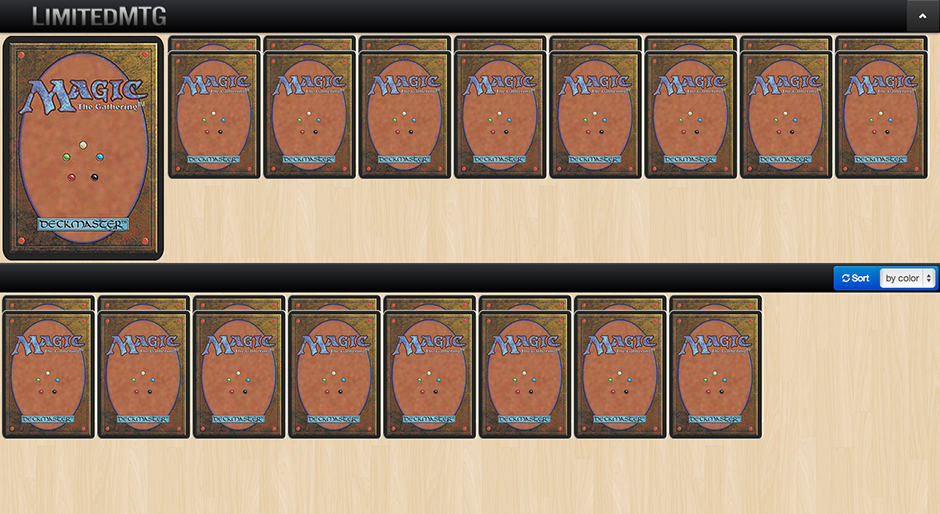
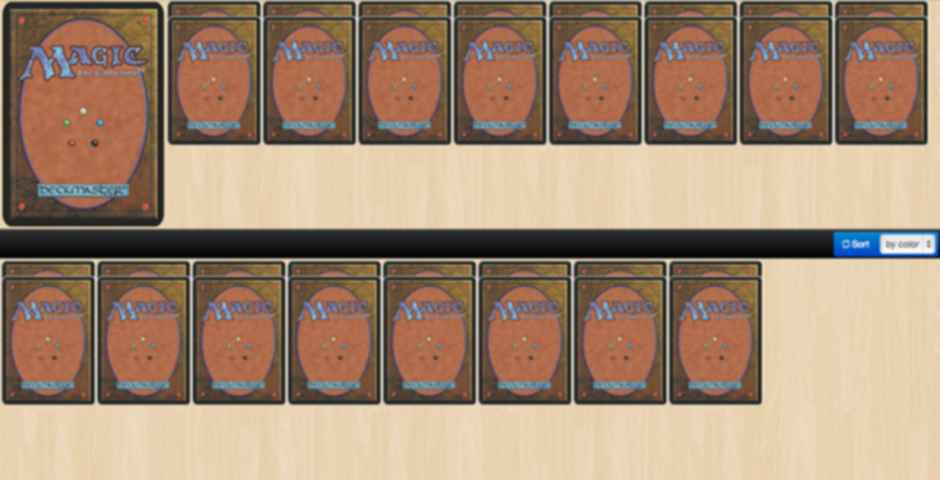
Split foyer view into separate splash & foyer views. Carousel updated and now in splash. Header made smaller and collapse button auto-show removed.

diff --git a/public/css/cloudmagic.css b/public/css/cloudmagic.css
@@ -1,44 +1,50 @@
 body {
-	background-image:url('/img/navy_blue.png');
+	/*background-image:url('/img/triangles.png');*/
 	background-repeat: repeat;
+	background-color:#292929;
 }
 
 textarea {
     resize: none;
 }
 
+/* Don't show shadows when selecting text */
+::-moz-selection { background: #5af; color: #fff; text-shadow: none; }
+::selection { background: #5af; color: #fff; text-shadow: none; }
 
 
 
-/* Header Divs and Classes */
-#header #open {
-	height:50px;/* linked with #content padding-top */
-	position: fixed;
-	right: 0;
-	left: 0;
-	z-index: 1030;
-	margin-bottom: 0;
-	background: rgb(48,49,53); /* Old browsers */
-	background: -moz-linear-gradient(top,  rgba(48,49,53,1) 0%, rgba(0,0,0,1) 100%); /* FF3.6+ */
-	background: -webkit-gradient(linear, left top, left bottom, color-stop(0%,rgba(48,49,53,1)), color-stop(100%,rgba(0,0,0,1))); /* Chrome,Safari4+ */
-	background: -webkit-linear-gradient(top,  rgba(48,49,53,1) 0%,rgba(0,0,0,1) 100%); /* Chrome10+,Safari5.1+ */
-	background: -o-linear-gradient(top,  rgba(48,49,53,1) 0%,rgba(0,0,0,1) 100%); /* Opera 11.10+ */
-	background: -ms-linear-gradient(top,  rgba(48,49,53,1) 0%,rgba(0,0,0,1) 100%); /* IE10+ */
-	background: linear-gradient(to bottom,  rgba(48,49,53,1) 0%,rgba(0,0,0,1) 100%); /* W3C */
-	filter: progid:DXImageTransform.Microsoft.gradient( startColorstr='#303135', endColorstr='#000000',GradientType=0 ); /* IE6-9 */	
-	-webkit-box-shadow: 0px 1px 5px rgba(50, 50, 50, 0.75);
-	-moz-box-shadow:    0px 1px 5px rgba(50, 50, 50, 0.75);
-	box-shadow:         0px 1px 5px rgba(50, 50, 50, 0.75);
-}
+/* Header */
+	#header #open {
+		height:40px;/* linked with #content padding-top */
+		position: fixed;
+		right: 0;
+		left: 0;
+		z-index: 1030;
+		margin-bottom: 0;
+		background: rgb(48,49,53); /* Old browsers */
+		background: -moz-linear-gradient(top,  rgba(48,49,53,1) 0%, rgba(0,0,0,1) 100%); /* FF3.6+ */
+		background: -webkit-gradient(linear, left top, left bottom, color-stop(0%,rgba(48,49,53,1)), color-stop(100%,rgba(0,0,0,1))); /* Chrome,Safari4+ */
+		background: -webkit-linear-gradient(top,  rgba(48,49,53,1) 0%,rgba(0,0,0,1) 100%); /* Chrome10+,Safari5.1+ */
+		background: -o-linear-gradient(top,  rgba(48,49,53,1) 0%,rgba(0,0,0,1) 100%); /* Opera 11.10+ */
+		background: -ms-linear-gradient(top,  rgba(48,49,53,1) 0%,rgba(0,0,0,1) 100%); /* IE10+ */
+		background: linear-gradient(to bottom,  rgba(48,49,53,1) 0%,rgba(0,0,0,1) 100%); /* W3C */
+		filter: progid:DXImageTransform.Microsoft.gradient( startColorstr='#303135', endColorstr='#000000',GradientType=0 ); /* IE6-9 */	
+		-webkit-box-shadow: 0px 1px 5px rgba(50, 50, 50, 0.75);
+		-moz-box-shadow:    0px 1px 5px rgba(50, 50, 50, 0.75);
+		box-shadow:         0px 1px 5px rgba(50, 50, 50, 0.75);
+	}
+	#header #open img {
+		height:27px;
+	}
 	
 	#header #open a {
 		color:#fff;
-		line-height:40px;
+		line-height:30px;
 		padding-left:50px;
 		font-size:30px;
 		text-decoration:none;
 		position:relative;
-		top:3px;
 	}
 	
 	#header #open a:visited {
@@ -47,7 +53,7 @@ textarea {
 	
 	#header #open a:hover {
 		color:#bbb;
-		line-height:40px;
+		line-height:30px;
 		padding-left:50px;
 		font-size:30px;
 		text-decoration:none;
@@ -58,9 +64,9 @@ textarea {
 	}
 	
 	#header #open #collapse .btn {
-		height:50px;
+		height:40px;
 		margin-top:-1px;
-		width:50px;
+		width:40px;
 	}
 	
 	#header #closed {
@@ -98,49 +104,89 @@ textarea {
 		margin-top:-2px;
 		padding-top:0;
 	}
+/* Header End */	
 
-/* Content Divs and Classes */
+
+
+
+/* Content */
 #content {
-	padding-top:50px;
+	padding-top:40px;
 }
+/* Content End */
+
+
+
+
+/* Splash */
+#splash {
+	width:100%;
+	margin-left:0;
+	margin-right:0;
+	overflow:hidden;
+}
+
+#splash #screenshot-carousel {
+	overflow:hidden;
+	margin-bottom:0px;
+}
+
+#splash #screenshot-carousel .screenshot {
+	min-width:1200px;
+	width:100%;
+	position:relative;
+	top:0px;
+}
+
+#splash #tagline {
+	background-color:#474747;
+	position:relative;
+	clear:both;
+	z-index:1028;
+	-moz-border-radius: 20px;
+	border-radius: 20px;
+	box-shadow: 0px 5px 15px #111;	
+	color:#ccc;
+	text-align:center;
+	font-size:48px;
+	font-weight:200;
+	line-height:48px;
+	text-shadow: -1px -1px 3px #111, 0px 1px 2px #666; /* Bevel text */
+	border:1px solid #111;
+	border-top:1px solid #333;
+
+}
+/* Splash End */
+
+
+
 
 
 /* Foyer */
-#foyer {
-	padding-top:20px;
-	width:940px;
-	margin-left:auto;
-	margin-right:auto;
-	color:#fff;
-}
-
-#foyer #front-page-info {
-	width:700px;
-	float:left;
-}
-
-#foyer #front-page-buttons {
-	width:240px;
-	text-align:center;
-	float:right;
-}
-
-#foyer #draft-button {
-	margin-bottom:5px;
-	margin-top:10px;
-}
-
-#foyer #sealed-button {
-	margin-bottom:10px;
+#foyer .span12 {
+	margin-left:0;
 }
 
 #foyer #chat {
 	clear:both;
 	padding-top:20px;
+	width:940px;
+	color:#000;
+}
+
+#foyer #chat-hidden {
+	width:940px;
+	text-align:center;
+}
+
+#foyer #chat-button {
+	margin-top:10px;
 }
 
 #foyer #chat #chat-shown {
-	color:#000;
+	position:absolute;
+	top:100px;
+	left:200px;
 }
 
 #foyer #chat .chat-username {
@@ -162,6 +208,8 @@ textarea {
 	border-top:6px solid black;
 	border-left:6px solid black;
 	border-bottom:6px solid black;
+	width:350px;
+	display:inline-block;
 }
 
 #foyer #chat #convo {
@@ -207,6 +255,8 @@ textarea {
 #foyer #chat #middle-pane {
 	margin-left:0px;
 	border:6px solid black;
+	width:220px;
+	display:inline-block;
 }
 
 #foyer #chat #userlist {
@@ -236,6 +286,8 @@ textarea {
 	border:6px solid black;
 	border-left:0px;
 	border-bottom:0px;
+	width:346px;
+	display:inline-block;
 }
 
 #foyer #chat #sets {
@@ -268,15 +320,12 @@ textarea {
 	margin-right:5px;
 }
 
-#foyer #screenshot-carousel {
-	border:2px solid #000;
-}
-
 #foyer #nickname-lightbox {
 	position:fixed;
 	top:0px;
 	left:0px;
 	z-index:1200;
+	color:#ddd;
 }
 
 #foyer .opacity60 {
@@ -294,7 +343,7 @@ textarea {
 	-webkit-box-shadow: 10px 10px 44px #000000;
 	box-shadow: 10px 10px 44px #000000;
 	opacity:1;
-	margin-top:100px;
+	margin-top:150px;
 	-webkit-border-radius: 5px;
 	-moz-border-radius: 5px;
 	border-radius: 5px;

diff --git a/public/js/splash_ui.js b/public/js/splash_ui.js
@@ -1,0 +1,77 @@
+function showLobby() {
+	$('#splash').css("display", "none");
+	$('#nickname-lightbox').css("display", "block");
+	$('#foyer').css("display", "block");
+}
+
+
+function lightboxSize() {
+	var windowHeight = $(window).height();
+	var windowWidth = $(window).width();
+	$('#nickname-lightbox').css({
+		"height": windowHeight,
+		"width": windowWidth
+	});
+}
+
+//var interval = self.setInterval(appendChat,500);
+function appendChat() {
+	var convo = $("#convo");
+	var convoInner = $("#convo-inner"); 
+	var atBottom = ( convoInner.outerHeight() - convo.scrollTop() ) <=  convo.height();
+	var msg = "<div class='chat-msg'><span class='chat-username' style='color:red;'>Username 1:</span><span>Test" + i + "</span></div>";
+	convoInner.append(msg);
+	
+	if( atBottom ){
+		convo.stop().animate({ scrollTop: convo[0].scrollHeight }, 400);
+	}
+
+	//++i;
+}
+
+function carouselDimensions() {
+	var windowWidth = $(window).width();
+	var windowHeight = $(window).height();
+	
+	var carouselWidth = windowWidth;
+	var carouselHeight = (windowHeight-40)*0.8;
+	$('#screenshot-carousel').css({
+		"width" : carouselWidth,
+		"height" : carouselHeight
+	});
+	
+	var taglineWidth = windowWidth*0.9;
+	if(taglineWidth>400) {
+		taglineWidth=400;
+	}
+	var taglineHeight = carouselHeight*0.75;
+	if (taglineHeight>300) {
+		taglineHeight=300;
+	}
+	var taglineLeft = (windowWidth-taglineWidth)/2;
+	var taglineTop = (carouselHeight-((carouselHeight-taglineHeight)/2))*-1;
+	var taglineBottom = carouselHeight-(taglineTop*-1);
+	$('#tagline').css({
+		"width" : taglineWidth,
+		"height" : taglineHeight,
+		"left" : taglineLeft,
+		"margin-top" : taglineTop,
+		"margin-bottom" : taglineBottom
+	});
+	
+	var taglineTxtTop = taglineHeight*-1;
+	$('#tagline-txt').css({
+		"margin-top" : taglineTop
+	});
+	
+}
+
+$(document).ready(function(){
+	carouselDimensions();
+	lightboxSize();
+});
+
+$(window).resize(function() {
+	carouselDimensions();
+	lightboxSize();
+});

diff --git a/public/js/header_ui.js b/public/js/header_ui.js
@@ -19,7 +19,7 @@ function expand() {
 		"display" : "block",
 	});
 	$('#content').css({
-		"padding-top" : "50px",
+		"padding-top" : "40px",
 	});
 	resizeScreen();
 }
